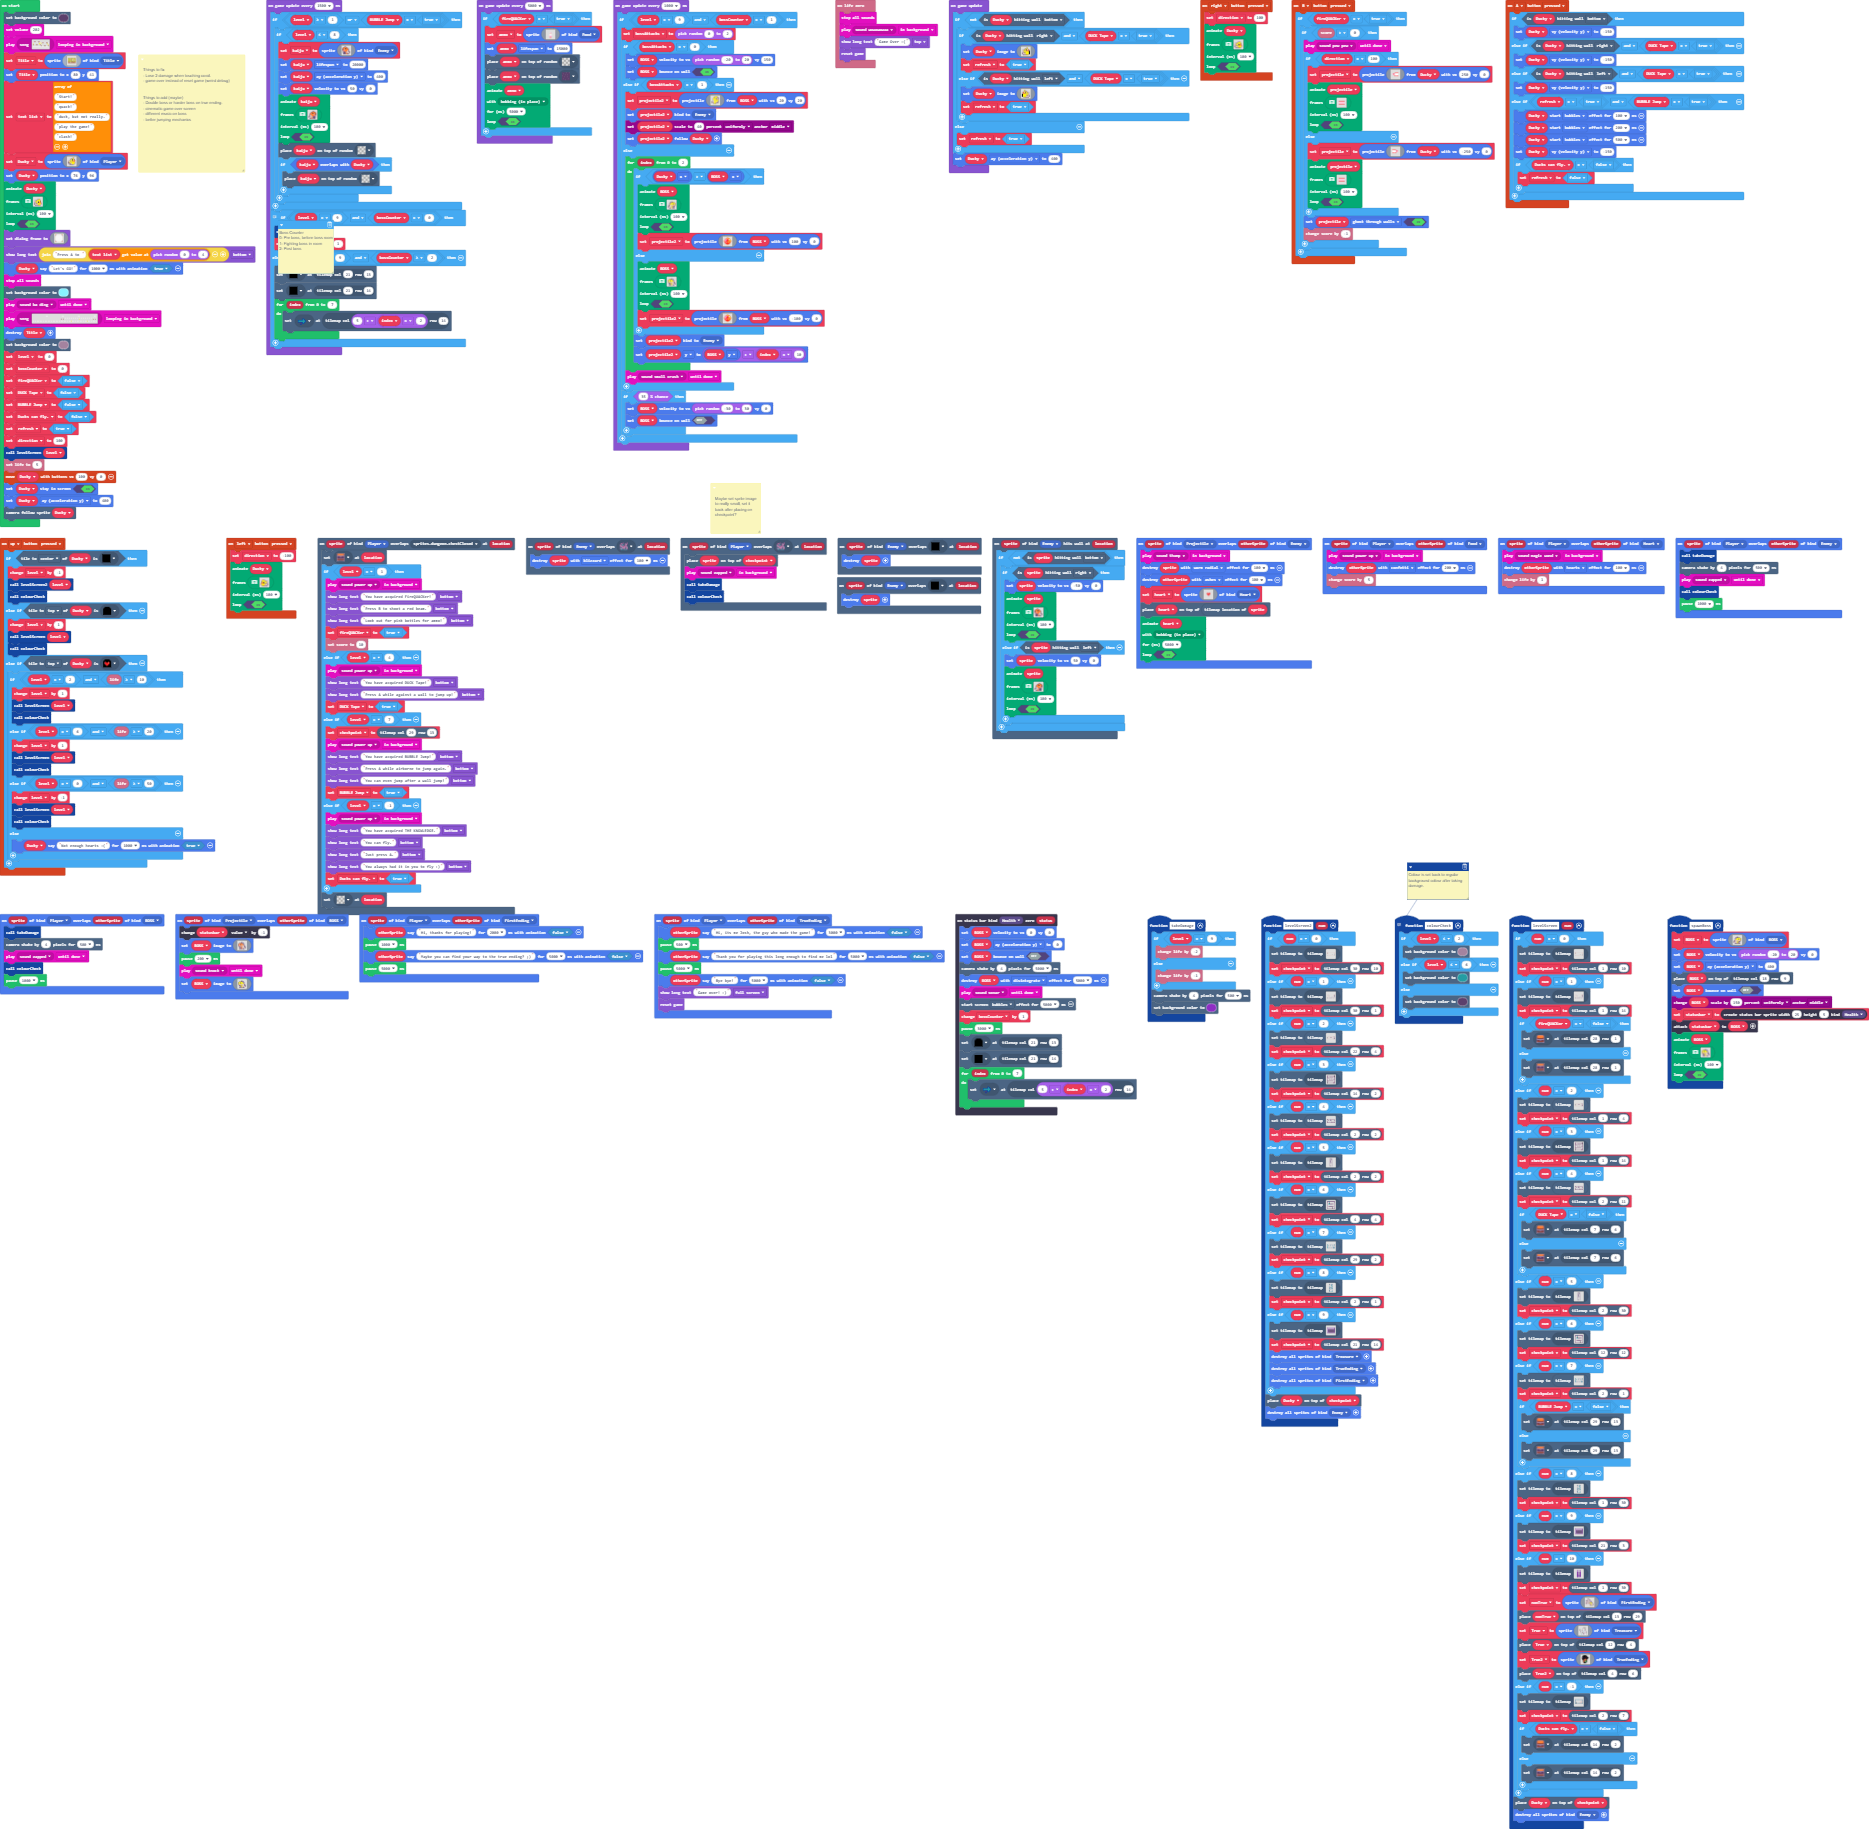
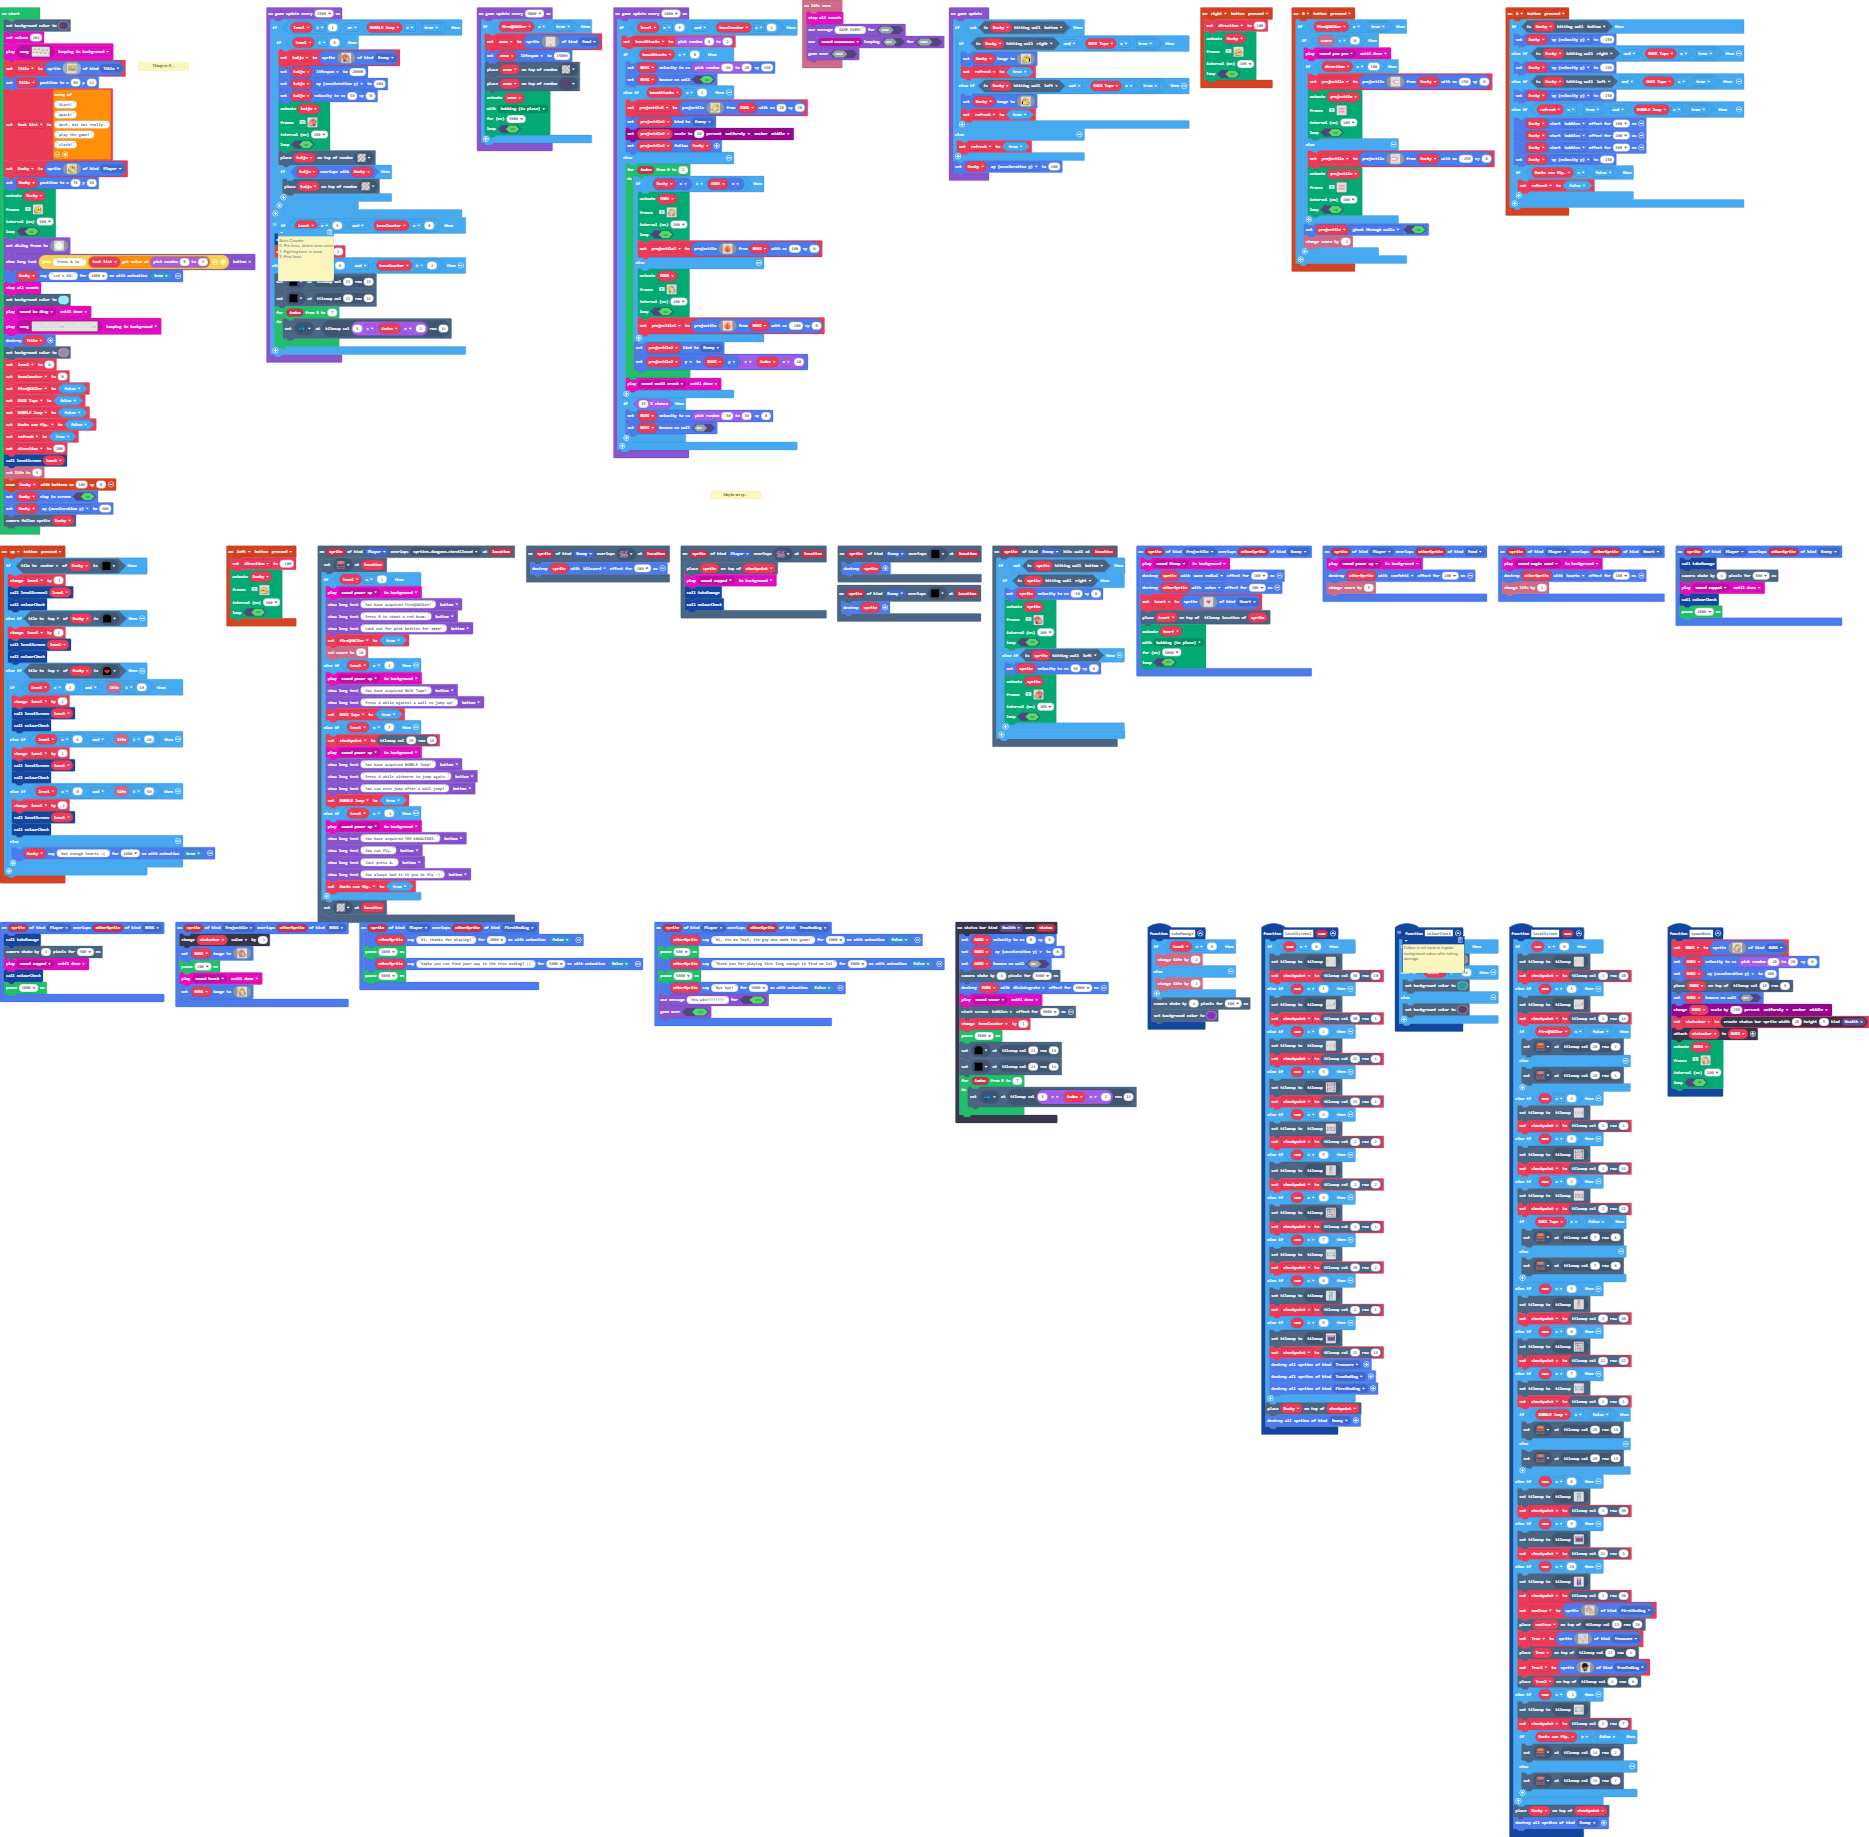
game over instead of reset.

Changed region(s): [[0.0, 0.0, 1.0, 0.9661]]

diff --git a/main.ts b/main.ts
@@ -1082,8 +1082,8 @@ sprites.onOverlap(SpriteKind.Player, SpriteKind.TrueEnding, function (sprite, ot
     otherSprite.sayText("Thank you for playing this long enough to find me lol", 5000, false)
     pause(5000)
     otherSprite.sayText("Bye bye!", 5000, false)
-    game.showLongText("Game over! :)", DialogLayout.Full)
-    game.reset()
+    game.setGameOverMessage(true, "You win!!!!!!!!")
+    game.gameOver(true)
 })
 function levelScreen (num: number) {
     if (num == 0) {
@@ -1293,9 +1293,9 @@ function levelScreen (num: number) {
 }
 info.onLifeZero(function () {
     music.stopAllSounds()
-    music.play(music.melodyPlayable(music.wawawawaa), music.PlaybackMode.InBackground)
-    game.showLongText("Game Over :(", DialogLayout.Top)
-    game.reset()
+    game.setGameOverMessage(false, "GAME OVER!")
+    game.setGameOverPlayable(false, music.melodyPlayable(music.wawawawaa), false)
+    game.gameOver(false)
 })
 sprites.onOverlap(SpriteKind.Player, SpriteKind.Food, function (sprite, otherSprite) {
     music.play(music.melodyPlayable(music.powerUp), music.PlaybackMode.InBackground)
